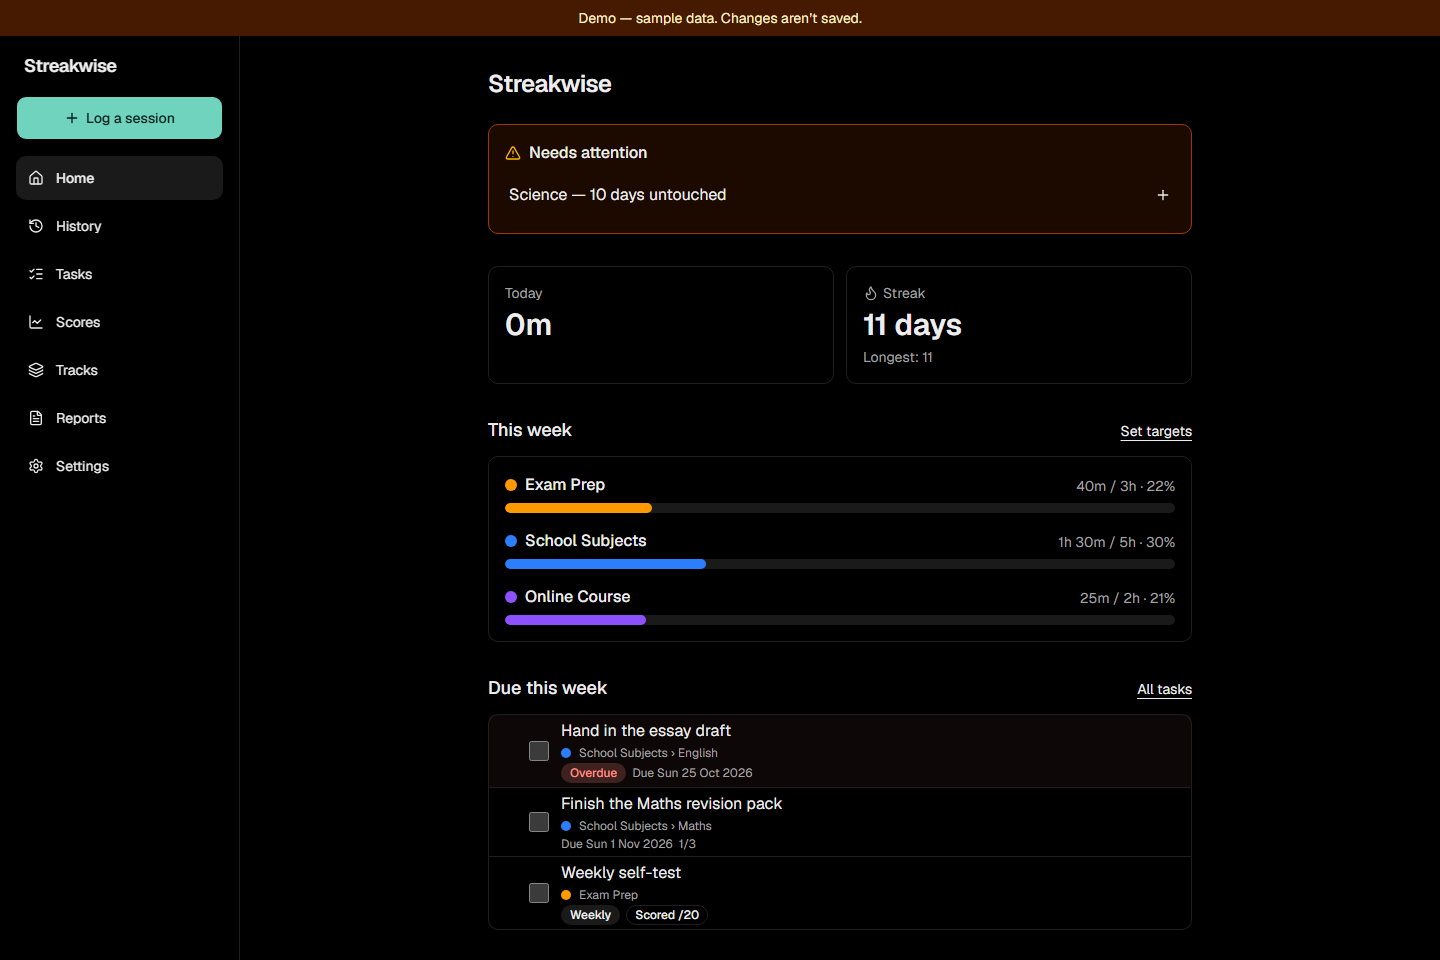
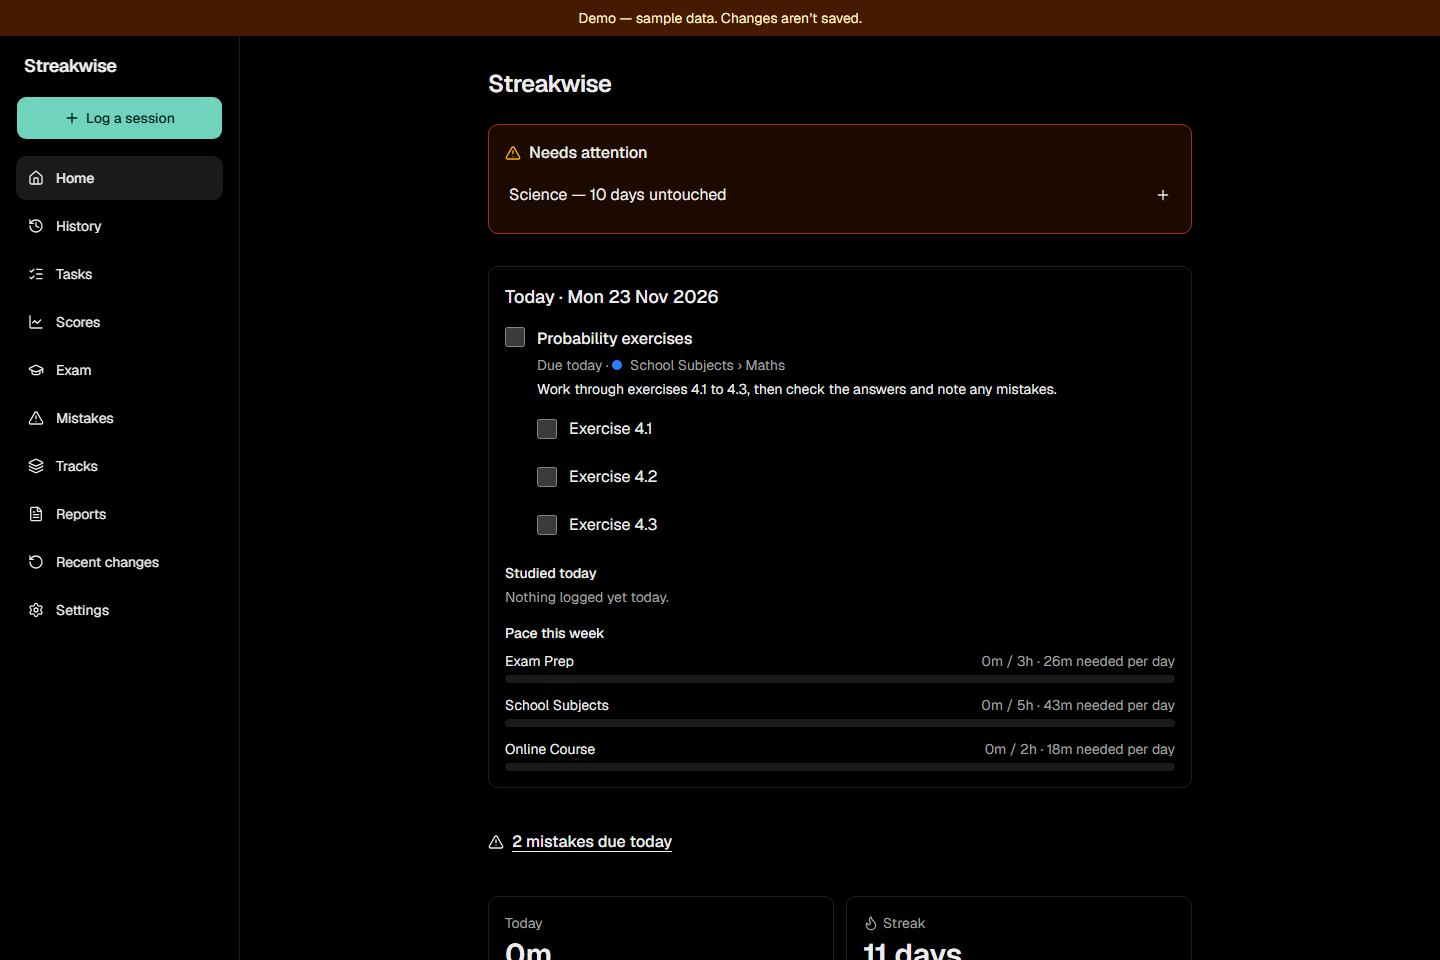
docs: README, architecture, and screenshots for v1.1
Features (study day, timer, Today card, undo and Recent changes, exam view, mistake tracker,
note search, CSVs, restore, Claude's new tools), 558 tests, the a11y sweep on eleven screens, and
new Exam and Mistakes screenshots regenerated from the demo.

diff --git a/README.md b/README.md
@@ -13,7 +13,7 @@ on sample data
 
 ## Screenshots
 
-**Home** — today's time, the streak, weekly targets, and what needs attention.
+**Home** — the Today card, today's time, the streak, weekly targets, and what needs attention.
 
 ![Home dashboard](docs/screenshots/home-desktop-light.png)
 
@@ -21,15 +21,20 @@ on sample data
 
 ![A track's page](docs/screenshots/track-desktop-light.png)
 
+**Exam view** — the countdown, targets per mock, results per module, and a grid that marks every
+result below its target.
+
+![Exam view](docs/screenshots/exam-desktop-light.png)
+
 **Reports** — any range, ready to print, send, or hand to Claude.
 
 ![Weekly report](docs/screenshots/reports-desktop-light.png)
 
 **On a phone**, where most logging happens:
 
-| Home                                                      | Log a session                                               |
-| --------------------------------------------------------- | ----------------------------------------------------------- |
-| ![Home on a phone](docs/screenshots/home-phone-light.png) | ![Logging on a phone](docs/screenshots/log-phone-light.png) |
+| Home                                                      | Log a session                                               | Mistakes due today                                                |
+| --------------------------------------------------------- | ----------------------------------------------------------- | ----------------------------------------------------------------- |
+| ![Home on a phone](docs/screenshots/home-phone-light.png) | ![Logging on a phone](docs/screenshots/log-phone-light.png) | ![Mistakes on a phone](docs/screenshots/mistakes-phone-light.png) |
 
 **Dark theme** — the theme follows the system setting.
 
@@ -44,21 +49,33 @@ on sample data
 - Organise goals as **tracks → subtasks → topics** (e.g. _Exam Prep → Practice_, or
   _School Subjects → Maths → Chapter 3_), each track with its own colour.
 - Rename, recolour, add to, archive, or delete a track from its own page.
-- Log a session in a few taps: pick what you studied, tap a duration, add an optional note.
+- Log a session in a few taps: pick what you studied, tap a duration, add an optional note. Or
+  start a **timer** and stop it when you're done; it fills in the session for you.
+- **"My day ends at"**: if you study past midnight, choose when your day ends (up to 06:00), and
+  late sessions count for the day you were still working on.
 - Mark topics _not started_, _in progress_, or _done_ and watch your syllabus percentage grow.
 
 **See how you're doing**
 
-- **Home dashboard:** today's time, current and longest streak, weekly targets with progress bars,
-  tasks due this week, upcoming deadlines with days left, and a 12-month heatmap.
+- **Home dashboard:** a **Today card** (today's task with its sub-tasks, minutes per subject, and
+  the pace needed per day to reach each weekly target), today's time, current and longest streak,
+  weekly targets with progress bars, tasks due this week, upcoming deadlines with days left, and a
+  12-month heatmap.
 - **Neglect warnings** when a track or subtask hasn't been touched for a few days.
-- **History** grouped by day, with filters and editing.
+- **History** grouped by day, with filters, editing, and a search across every note.
+- **Undo** for 10 seconds after each change, and a **Recent changes** list of the last 7 days
+  (yours and Claude's) with Undo on each.
 
 **Plan and measure**
 
-- **Tasks** with sub-tasks nested as deep as you like, one-off or weekly, optionally scored.
+- **Tasks** with sub-tasks nested as deep as you like, one-off or weekly, optionally scored, and
+  ticked for today or any earlier day.
 - **Scores** for past papers, quizzes, mock tests, and self-tests, with trend lines per subject.
 - **Deadlines** for exams and submissions, with the share of the syllabus still left.
+- **Exam view:** a countdown, score targets for each mock, results per module with the target
+  line, and a mock grid that marks every result below its target.
+- **Mistake tracker:** note a mistake and it comes back for review 1, 3, and 7 days later; answer
+  right or wrong, and see what's open or learned per module.
 
 **Share your progress**
 
@@ -66,12 +83,16 @@ on sample data
 - **Print / Save as PDF**, **copy for WhatsApp**, or **copy for Claude** as Markdown.
 - **Share links**: a frozen, read-only snapshot at an unguessable URL that expires after 7 days,
   30 days, or never, and can be revoked at any time. Private notes stay out unless you include them.
-- **Export** everything as JSON, or sessions as CSV, with a reminder when a backup is due.
+- **Export** everything as JSON, or sessions, scores, tasks, and mistakes as CSV, with a reminder
+  when a backup is due. **Restore** a backup file later; it's checked and summarised first, and a
+  fresh backup downloads before anything is replaced.
 
 **Use it with Claude**
 
 - Each account gets its own **Claude connector** (Model Context Protocol). Claude can read your
-  structure, log sessions, check progress and gaps, manage tasks and scores, and build reports.
+  structure, log sessions (up to 10 at once), check progress and gaps, manage tasks, scores, and
+  mistakes, fix or undo its own changes, and build reports. Compact answers and filters keep
+  Claude's replies small, and you can undo anything Claude changed from Recent changes.
 
 **Accounts**
 
@@ -105,8 +126,10 @@ Claude  ──►  /mcp/<your link>  (MCP server function)  ──►  core serv
   pointing at another user's data.
 - **Claude links.** A Claude link contains a long random token; only its hash is stored. Each link
   opens only its owner's data, and making a new link instantly retires the old one.
-- **Time is honest.** Days are calendar days in one time zone, weeks run Monday to Sunday, and
-  durations are whole minutes.
+- **Time is honest.** Days are calendar days in one time zone (moved by your "My day ends at"
+  setting), weeks run Monday to Sunday, and durations are whole minutes.
+- **Every change is recorded once.** A wrapper around the data store writes a change history for
+  the app, the demo, and Claude alike, which is what Undo and Recent changes use.
 
 More detail: [Architecture](docs/architecture.md).
 
@@ -118,10 +141,11 @@ Vitest · React Testing Library · Playwright · GitHub Actions
 
 ## Quality
 
-- **400 automated tests:** pure logic, services on an in-memory store, API handlers, the MCP server
-  through the real SDK, database migrations on PGlite, and React screens.
-- **End-to-end checks** in a real browser, on phone and desktop sizes: the demo journey (which must
-  make zero network calls), the installable app, and WCAG A/AA on all eight screens in both themes.
+- **558 automated tests:** pure logic, services on an in-memory store, API handlers, the MCP
+  server through the real SDK, database migrations on PGlite, and React screens.
+- **End-to-end checks** in a real browser, on phone and desktop sizes: the demo journeys (which must
+  make zero network calls), the installable app, and WCAG A/AA on all eleven screens in both
+  themes.
 - CI on every pull request: lint, Prettier, type-check, tests, a production build, and the
   end-to-end tests.
 - Accessible by design: labelled inputs, keyboard navigation, visible focus, 44 px tap targets,
@@ -165,7 +189,9 @@ docs/            specification, architecture, setup, progress
 ## Roadmap
 
 - **Shipped:** every milestone in the [specification](docs/SPEC.md) — accounts, Claude connector,
-  tasks and scores, reports and share links, demo mode and the installable app, and the polish pass.
+  tasks and scores, reports and share links, demo mode and the installable app, and the polish pass
+  (v1.0); then v1.1, the exam update: the study day, undo and change history, the exam view, the
+  mistake tracker, the Today card, the timer, note search, and backup restore.
 - **Later ideas:** sign-in (OAuth) for the Claude connector, drag-and-drop in the structure editor,
   heatmap per track.
 

diff --git a/docs/architecture.md b/docs/architecture.md
@@ -143,6 +143,24 @@ function instance (`dailyPrune`, UNDO-7).
   subtask today, and pace per track with "needed per day" (§B9.14), from
   `src/core/logic/todayCard.ts`. The dashboard also counts mistakes due (ERR-6).
 
+## Timer, search, export, and restore (v1.1, TIMER, DATA)
+
+- **Timer:** one timer per device in `localStorage` (`streakwise.timer.api` or `.demo`: node and
+  start time), read through `useSyncExternalStore` (`src/features/timer/timerStore.ts`), so it
+  survives reloads and never calls the server while it runs. Stopping turns the run into minutes
+  and the study day of its start (`src/core/logic/timer.ts`) and opens `/log` with them filled in.
+- **Search:** History's `noteContains` goes down to the store (`ilike` in Supabase; `*` is a
+  PostgREST wildcard, so the exact match is re-checked in code) and pages like the other filters.
+- **Export format 2** adds mistakes, exam targets, and "day ends at"; CSVs for sessions, scores,
+  tasks, and mistakes are built in the browser from the same export, with the formula guard.
+- **Restore** (`src/core/services/backup.ts`): the file (format 1 or 2, at most 4 MB) is parsed
+  with Zod and checked against every database rule (levels, sibling names, links between rows,
+  one completion per period) before anything changes, so a restore never fails halfway. Every row
+  gets a new id with its links remapped, then `restore_user_backup` (one transaction) deletes the
+  user's study rows and inserts the new ones; the account, Claude link, shared links, and
+  export/MCP times stay, and the change history is cleared. The browser runs the same checks to
+  show a summary first, and downloads a fresh backup before it sends the file.
+
 ## Dashboard
 
 `getDashboard` reads the tree, settings, deadlines, and a light list of every session
@@ -183,6 +201,7 @@ logged-in user's rows (`deps.repo` is a per-user repository; see Accounts below)
 | `/api/shares`                | GET, POST     | List share links; create one (server rebuilds the report)        |
 | `/api/shares/:id`            | DELETE        | Revoke a share link (kept in the list, marked revoked)           |
 | `/api/share/:slug`           | GET (public)  | A shared report's snapshot; 404 if unknown/expired/revoked       |
+| `/api/restore`               | POST          | Replace all study data with a backup (checked first)             |
 | `/api/export`                | POST          | All data as JSON (CSV is made in the browser); stamps time       |
 | `/api/tasks/:id/complete`    | POST, DELETE  | Complete (optional `completedOn`); untick the period of `?date=` |
 | `/api/changes`               | GET           | Changes from the last 7 days, newest first (UNDO-4)              |
